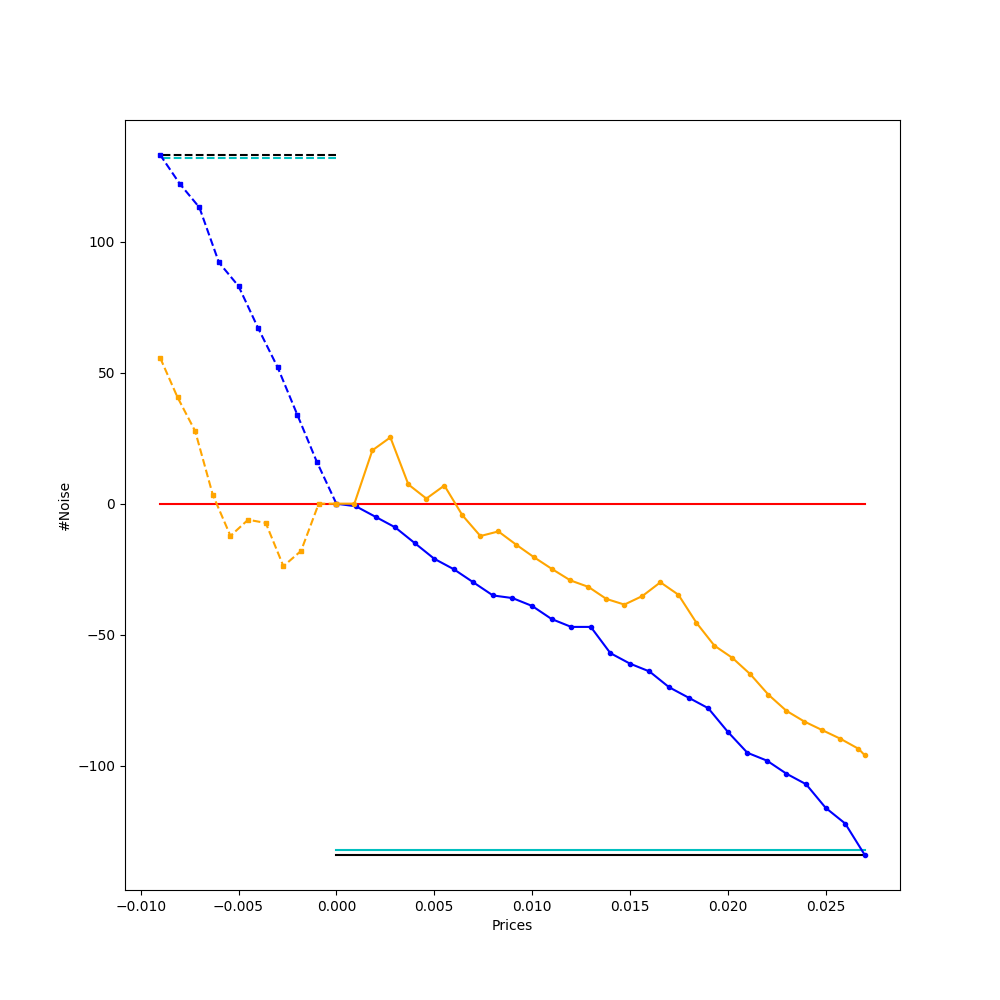
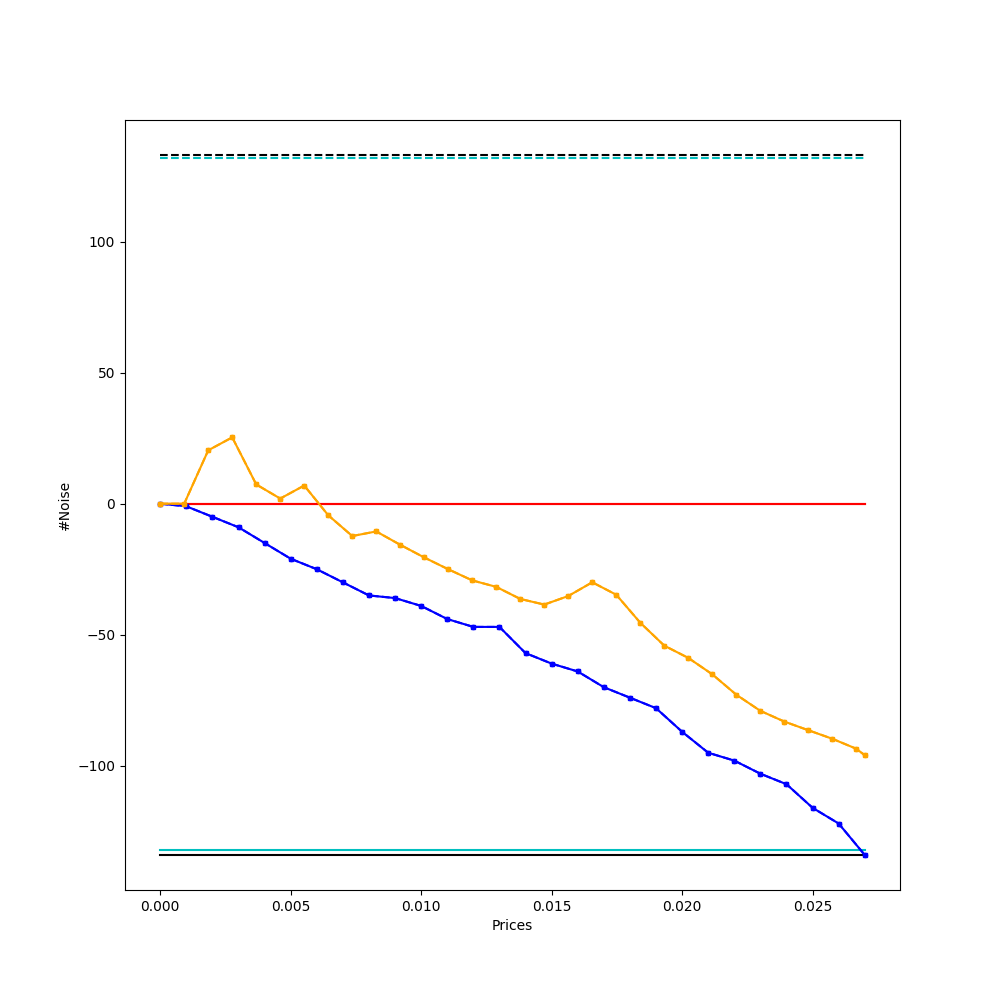
xx

diff --git a/core.py b/core.py
@@ -2082,7 +2082,7 @@ class MyModel(object):
         self._fmt_brief = '../simulation/training-dataset/mu-0-sigma-110.0-points-2000/{}-brief.csv'
         self._fmt_truth = '../simulation/training-dataset/mu-0-sigma-110.0-points-2000/{}-true-detail.csv'
         self._fmt_fake = '../simulation/training-dataset/mu-0-sigma-110.0-points-2000/{}-fake-detail.csv'
-        length = 600
+        length = 10
         assert length <= prices.shape[-1] - 1, "Length must be less than prices.shape-1"
         batch_size = self.batch_input_shape[-1]
         # states_list = None
@@ -2138,6 +2138,10 @@ class MyModel(object):
                 noise_list_ = noise_list[::size // 50]
                 noise_list = np.hstack([noise_list_, noise_list[-1]])
 
+
+            fake_price_list = price_list
+            fake_noise_list = noise_list
+
             self._plot_sim(ax1, fake_price_list, fake_noise_list,
                            price_list, noise_list, fake_B1,
                            fake_B2, fake_B3, _B1, _B2, _B3)
@@ -2161,6 +2165,9 @@ class MyModel(object):
             interpolated_noises_ = interpolated_noises[::step]
             interpolated_prices = np.hstack([interpolated_prices_, interpolated_prices[-1]])
             interpolated_noises = np.hstack([interpolated_noises_, interpolated_noises[-1]])
+
+            fake_interpolated_prices = interpolated_prices
+            fake_interpolated_noises = interpolated_noises
 
             self._plot_interpolated(ax1, fake_interpolated_prices, fake_interpolated_noises,
                                     interpolated_prices, interpolated_noises, fake_B1,
